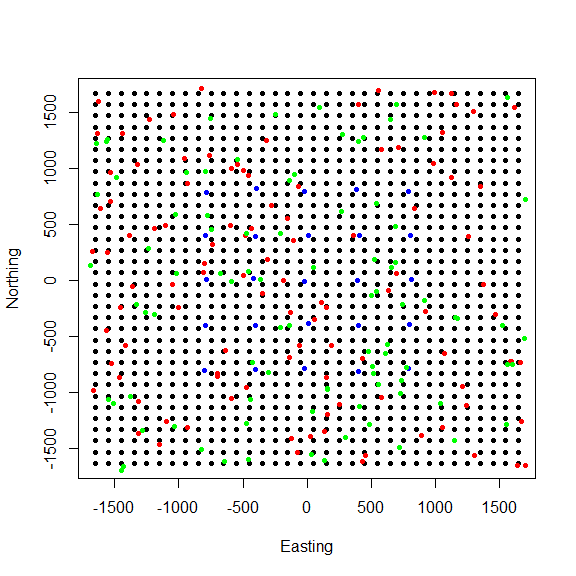
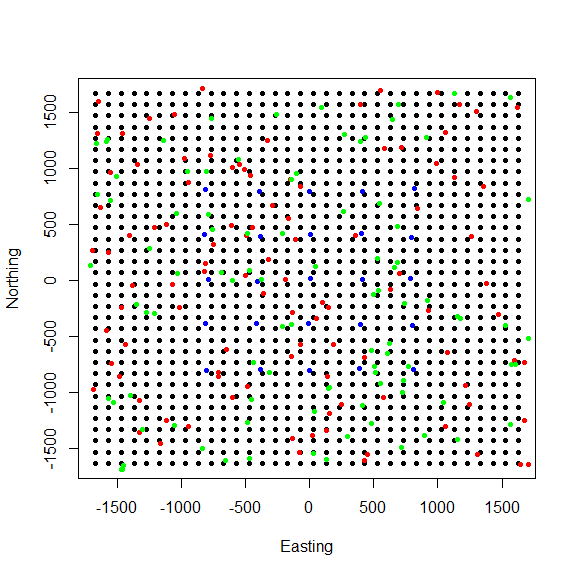
Added citation to README.

diff --git a/README.md b/README.md
@@ -9,18 +9,18 @@
 
 The goal of ‘localSCR’ is to provide user-friendly functions to
 implement spatially-explicit mark recapture (SECR) models using the
-‘nimble’ package in R. The package currently has functions to 1)
-assist with defining the state-space grid and extent for a given
-2-dimensional or 3-dimensional trap array (i.e., when traps are
-clustered in space), 2) simulate data under different encounter
+‘nimble’ package (de Valpine et a. 2022) in R. The package currently
+has functions to 1) assist with defining the state-space grid and extent
+for a given 2-dimensional or 3-dimensional trap array (i.e., when traps
+are clustered in space), 2) simulate data under different encounter
 distributions and other parameters, 3) create habitat masks from either
 raster data or spatial polygons, 4) provide template SECR models that
 are easily customizable, and 4) fit and summarize SECR models using
-nimble with options for parallel processing. Future functionality will
-include creating realized density surfaces from MCMC output and
-implementing localized approaches as in Milleret et al. (2019) and
-Woodruff et al. (2020). The package also uses block updating of x-and y-
-activity center coordinates to decrease run time.
+‘nimble’ (de Valpine et a. 2022) with options for parallel processing.
+Future functionality will include creating realized density surfaces
+from MCMC output and implementing localized approaches as in Milleret et
+al. (2019) and Woodruff et al. (2020). The package also uses block
+updating of x-and y- activity center coordinates to decrease run time.
 
 Another useful package is ‘nimbleSCR’ (Bischof et al. 2021) that
 implements custom sampling distributions to increase sampling speed and
@@ -42,7 +42,7 @@ You can install the development version of ‘localSCR’ like so:
 ``` r
 library(remotes)
 install_github("sitkensis22/localSCR")
-#> Skipping install of 'localSCR' from a github remote, the SHA1 (f53d932a) has not changed since last install.
+#> Skipping install of 'localSCR' from a github remote, the SHA1 (e079639f) has not changed since last install.
 #>   Use `force = TRUE` to force installation
 ```
 
@@ -60,7 +60,7 @@ state-space with a habitat mask:
 library(localSCR)
 ```
 
-## (1) Simulate a single trap array with random positional noise and create state-space
+### (1) Simulate a single trap array with random positional noise and create state-space
 
 ``` r
 
@@ -84,7 +84,7 @@ points(traps, col="blue",pch=20)
 
 <img src="man/figures/README-unnamed-chunk-3-1.png" style="display: block; margin: auto;" />
 
-## (2) Simulate SCR data and make a plot of it.
+### (2) Simulate SCR data and make a plot of it.
 
 ``` r
 
@@ -97,7 +97,7 @@ str(data3d)
 #> List of 3
 #>  $ y  : int [1:200, 1:25, 1:4] 0 0 0 0 0 0 0 0 0 0 ...
 #>  $ sex: int [1:200] 1 1 1 1 1 1 1 1 1 1 ...
-#>  $ s  : num [1:200, 1:2] 718.8 -206.2 -1017.1 917.9 51.5 ...
+#>  $ s  : num [1:200, 1:2] 717.4 -214.8 -1032.1 918 44.8 ...
 #>   ..- attr(*, "dimnames")=List of 2
 #>   .. ..$ : NULL
 #>   .. ..$ : chr [1:2] "sx" "sy"
@@ -113,7 +113,7 @@ points(data3d$s[which(apply(data3d$y,1,sum)!=0),],col="green",pch = 20) # detect
 
 <img src="man/figures/README-unnamed-chunk-4-1.png" style="display: block; margin: auto;" />
 
-# (3) Workflow for simple SCR model with sex-specific sigma, binomial encounter distribution, and habitat mask
+### (3) Workflow for simple SCR model with sex-specific sigma, binomial encounter distribution, and habitat mask
 
 ``` r
 
@@ -207,7 +207,7 @@ tic() # track time elapsed
 out = run_classic(model = scr_model, data=data, constants=constants,
 inits=inits, params = params,niter = 8000, nburnin=1000, thin=1, nchains=2, parallel=TRUE, RNGseed = 500)
 toc()
-#> 135.83 sec elapsed
+#> 121.5 sec elapsed
 
 # summarize output
 samples = do.call(rbind, out)
@@ -238,6 +238,13 @@ Bischof R., D. Turek, C. Milleret, T. Ergon, P. Dupont, S. Dey, W. Zhang
 and P. de Valpine. 2021. nimbleSCR: Spatial Capture-Recapture (SCR)
 Methods Using ‘nimble’. R package version 0.1.3.
 <https://CRAN.R-project.org/package=nimbleSCR>.
+
+de Valpine P, C. Paciorek, D. Turek, N. Michaud, C. Anderson-Bergman, F.
+Obermeyer, C. C. Wehrhahn, A. Rodrìguez, L. D. Temple, and S. Paganin.
+2022. *NIMBLE: MCMC, Particle Filtering, and Programmable Hierarchical
+Modeling*. doi: 10.5281/zenodo.1211190 (URL:
+<https://doi.org/10.5281/zenodo.1211190>), R package version 0.12.2,
+URL:<https://cran.r-project.org/package=nimble>.
 
 Kellner, K. 2018. jagsUI: a wrapper around ‘rjags’ to streamline ‘JAGS’
 analyses. R package version 1.5.0.
